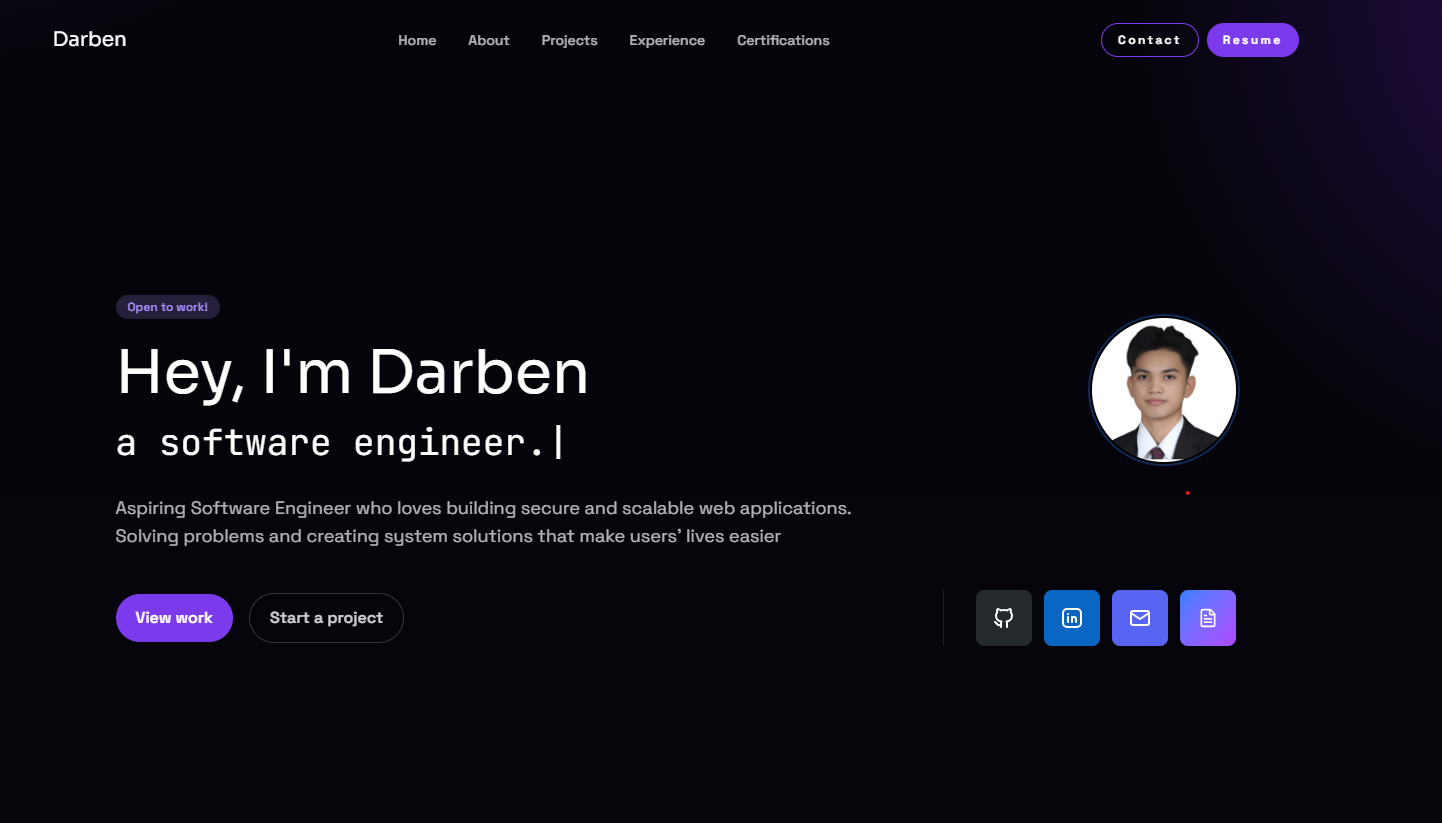
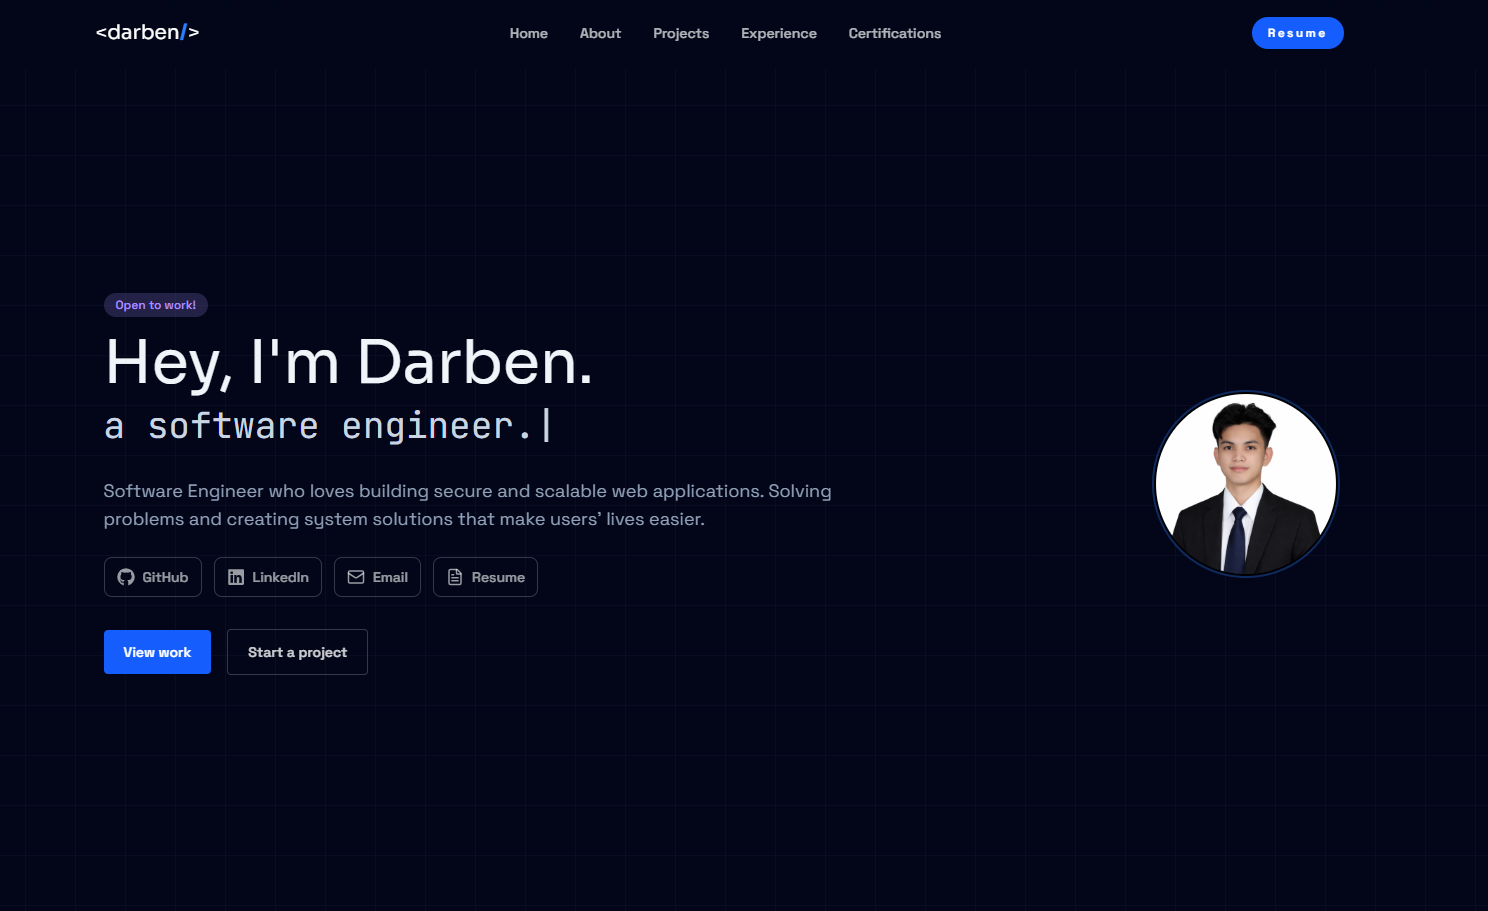
update readme

diff --git a/README.md b/README.md
@@ -4,7 +4,7 @@ Personal portfolio website built with React and Vite. It highlights projects, ce
 
 ## Live Demo
 
-- [Add live URL]
+- https://darben.vercel.app/
 
 ## Preview
 
